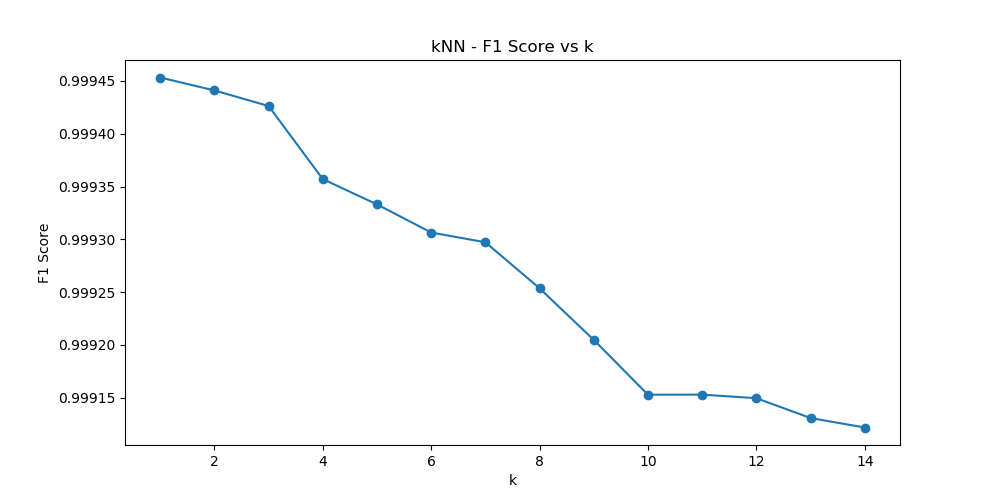
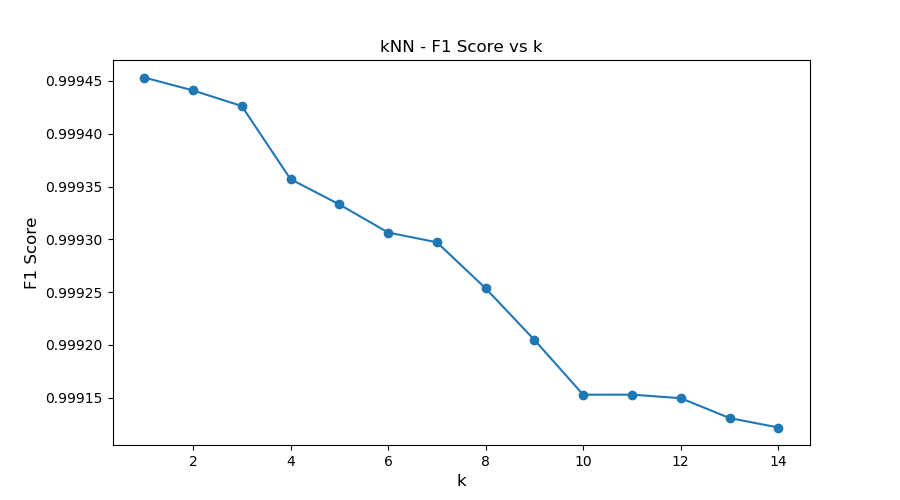
fixed k graph

diff --git a/hello_world/hello_world.py b/hello_world/hello_world.py
@@ -90,8 +90,9 @@ def choose_k(X_train, y_train, X_test, y_test):
     max_f1_score = -1
     best_knn = None
     f1_scores = []
-
     k_range = np.arange(1, 15)
+
+    '''
     for k in k_range:
         print("On k=%d" % k)
         knn = KNeighborsClassifier(n_neighbors=k)
@@ -104,16 +105,18 @@ def choose_k(X_train, y_train, X_test, y_test):
             best_knn = knn
 
     np.save("f1_scores.npy", f1_scores)
+    '''
 
+    f1_scores = np.load("f1_scores.npy")
     # plottin' our k's
-    fig = plt.figure(figsize=((10, 5)))
+    fig = plt.figure(figsize=((9, 5)))
     plt.plot(k_range, f1_scores, marker='o')
-    plt.title("kNN - F1 Score vs k")
-    plt.xlabel("k")
-    plt.ylabel("F1 Score")
+    plt.title("kNN - F1 Score vs k", fontsize='large')
+    plt.xlabel("k", fontsize='large')
+    plt.ylabel("F1 Score", fontsize='large')
     plt.savefig("graphs/kNN_k_selection.png")
 
-    return f1_scores.index(max(f1_scores)) + 1, max(f1_scores), best_knn
+    # return f1_scores.index(max(f1_scores)) + 1, max(f1_scores), best_knn
 
 
 # making a fancy confusion matrix
@@ -153,15 +156,15 @@ def main():
         print("Loaded in data")
 
     # returns best k and its f1 score
-    # k, f1, knn = choose_k(X_train, y_train, X_test, y_test)
+    k, f1, knn = choose_k(X_train, y_train, X_test, y_test)
    
-    
+    ''' 
     k = 1
     f1 = 0.9995
     knn = KNeighborsClassifier(n_neighbors=k)
     knn.fit(X_train, y_train)
     show_results_with_best_k(k, f1, X_test, y_test, knn)
-
+    '''
 
 if __name__ == "__main__":
     main()
